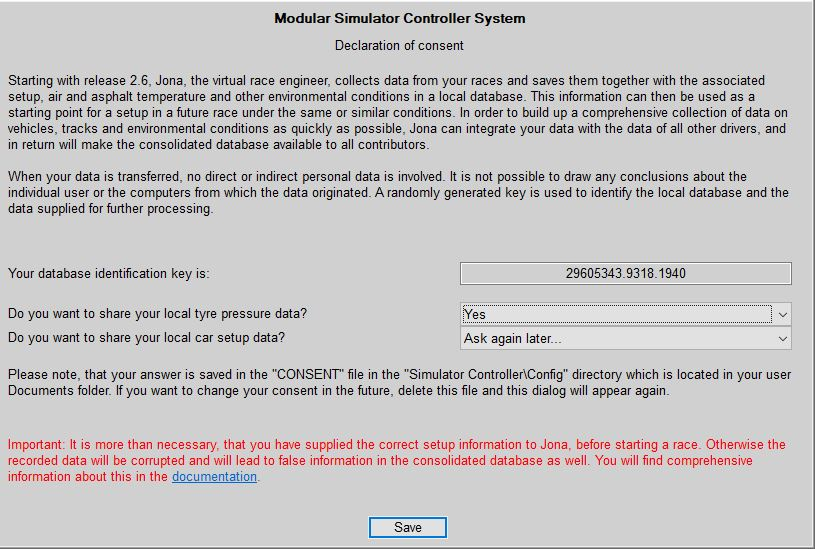
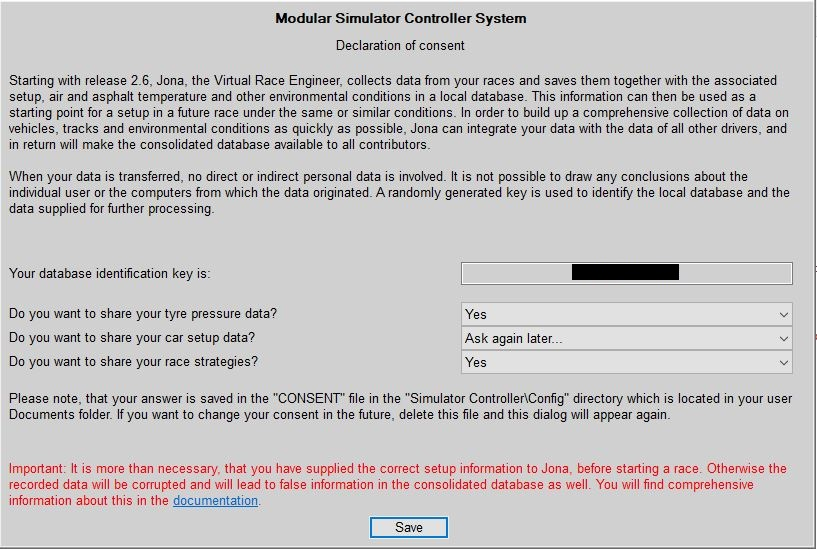
Documentation Update

diff --git a/Docs/Releases.md b/Docs/Releases.md
@@ -1,8 +1,18 @@
+## 4.4.9.0-release 11/25/22 (planned)
+  1. Minor bugfixes, as always
+  2. Documentation updates, as always
+  3. Tweaked colord coding of used tyres in "Race Center".
+  4. Race strategies are now included in the "Session Database" browser and can be [managed there](https://github.com/SeriousOldMan/Simulator-Controller/wiki/Virtual-Race-Engineer#strategies).
+  5. Support for sharing race strategies with the community (your [sharing consent](https://github.com/SeriousOldMan/Simulator-Controller/wiki/Virtual-Race-Engineer#race--session-database) will popup for review again).
+  6. Fixed post pitstop tyre analysis in "Race Center".
+  7. Updated color coding of used tyres in "Race Center".
+  8. Fixed unlimited practice mode for *Assetto Corsa Competizione*.
+
 ## 4.4.8.0-release 11/18/22
   1. Minor bugfixes, as always
   2. Documentation updates, as always
   3. Support for replication of car setups as well as race strategies has been added to the [Team Server data replication](https://github.com/SeriousOldMan/Simulator-Controller/wiki/Virtual-Race-Engineer#database-configuration). Attention: Using this feature requires an update of the Team Server. Please read the [Update Notes](https://github.com/SeriousOldMan/Simulator-Controller/wiki/Update-Notes#release-448), if you are hosting your own Team Server.
-  4. You can now decide for each car setup individually, whether it will be [shared with the community](https://github.com/SeriousOldMan/Simulator-Controller/wiki/Virtual-Race-Engineer#setup-repository). But as before, sharing of setups with the community generally requires your consent. If you want to review your consent, simply delete the file "CONSENT", which can be found in the *Simulator Controller\Config* folder, which is located in your user *Documents* folder. And you can also decide inidividually, whether a car setup will be synchronized with any of the connected Team Server databases (see 3. above).
+  4. You can now decide for each car setup individually, whether it will be [shared with the community](https://github.com/SeriousOldMan/Simulator-Controller/wiki/Virtual-Race-Engineer#setups). But as before, sharing of setups with the community generally requires your consent. If you want to review your consent, simply delete the file "CONSENT", which can be found in the *Simulator Controller\Config* folder, which is located in your user *Documents* folder. And you can also decide inidividually, whether a car setup will be synchronized with any of the connected Team Server databases (see 3. above).
   5. Multiple data connections are now supported for the [Team Server data replication](https://github.com/SeriousOldMan/Simulator-Controller/wiki/Virtual-Race-Engineer#database-configuration) which allows you to use telemetry data, pressures data and so on from multiple differen teams.
   6. Fixed end of race detection for fixed-lap races in rFactor 2.
   7. Race Assistant configurations can be [synchronized](https://github.com/SeriousOldMan/Simulator-Controller/wiki/Installation-&-Configuration#tab-race-engineer) by a click of a button.
@@ -61,7 +71,7 @@ Please also take a look at the [Update Notes](https://github.com/SeriousOldMan/S
   3. The position on the screen where info and progress overlays are displayed, can now be configured in the [UI settings](https://github.com/SeriousOldMan/Simulator-Controller/wiki/Using-Simulator-Controller#customizing-controller-notifications).
   4. The session synchronization can be [temporarily disabled](https://github.com/SeriousOldMan/Simulator-Controller/wiki/Team-Server#connecting-to-a-session) in the "Race Center", while you are working with the data.
   5. The Team Server now supports synchronization of telemetry data between different members of a team. The documentation for [team management](https://github.com/SeriousOldMan/Simulator-Controller/wiki/Team-Server#managing-teams) of the Team server itself, as well as the [database configuration](https://github.com/SeriousOldMan/Simulator-Controller/wiki/Virtual-Race-Engineer#database-configuration) of the "Session Database" has been heavily revised.
-  6. A driver may be selected in "Session Database" when [looking for tyre pressures](https://github.com/SeriousOldMan/Simulator-Controller/wiki/Virtual-Race-Engineer#tyre-pressure-advisor). This very helpful when looking for cold tyre pressures for your team mate during a team race.
+  6. A driver may be selected in "Session Database" when [looking for tyre pressures](https://github.com/SeriousOldMan/Simulator-Controller/wiki/Virtual-Race-Engineer#tyre-pressures). This very helpful when looking for cold tyre pressures for your team mate during a team race.
   7. Refactoring of the translation framework to better support the new Spanish translation.
   8. Thanks to the great work of Jose Krilin, we have an initial version of a Spanish translation. The UI has been translated for the most part and will be polished in the next weeks and you can also expect a working version of the voice generation and recognition soon.
   9. Fixed startup of Race Spotter in situations with a very short rolling or even a standing start.
@@ -295,7 +305,7 @@ Please also take a look at the [Update Notes](https://github.com/SeriousOldMan/S
   2. Documentation updates, as always
   3. New options in pitstop rules for always refueling and always changing tyres in strategy simulation.
   4. Introducing track automation, which let you automate your car settings like TC and ABS depending on track location.
-     - A new page has been added to "Session Database", which allows you to specify [location specific actions](https://github.com/SeriousOldMan/Simulator-Controller/wiki/Virtual-Race-Engineer#automation) for a specific simulator / car / track combination.
+     - A new page has been added to "Session Database", which allows you to specify [location specific actions](https://github.com/SeriousOldMan/Simulator-Controller/wiki/Virtual-Race-Engineer#automations) for a specific simulator / car / track combination.
      - Added the ["TrackAutomation" action](https://github.com/SeriousOldMan/Simulator-Controller/wiki/Plugins-&-Modes#plugin-race-spotter) to the "Race Spotter" plugin which let's you enable or disable location specific actions when you are out on the track.
 	 - New ["enableTrackAutomation", "disableTrackAutomations" and "selectTrackAutomation"](https://github.com/SeriousOldMan/Simulator-Controller/wiki/Virtual-Race-Spotter#choosing-between-different-track-automations), which let you control the track automationsm while on the track.
      - Added a new icon to the Stream Deck icon set for the "TrackAutomation" action.

diff --git a/Docs/Virtual Race Engineer.md b/Docs/Virtual Race Engineer.md
@@ -491,7 +491,7 @@ When your data is transferred, no direct or indirect personal data is involved. 
 
 ![](https://github.com/SeriousOldMan/Simulator-Controller/blob/main/Docs/Images/Consent.JPG)
 
-Note: You can give separate consents for sharing your tyre pressure setups and your mechanical and aerodynamic car setups, since the later might be considered to be some sort of private secret, for example. Furthermore, you must explicitly upload car setup data to include it to the session database, so you can decide which data you want to share. On the other hand, tyre pressures will be collected automatically by Jona, but you will be asked whether to include them in the session database (see below).
+Note: You can give separate consents for sharing your tyre pressure setups, your race strategies and your mechanical and aerodynamic car setups. Since car setups and race strategies might be considered kind of a secret, you must declare, whether you want to share the given strategy or setup individually for each item and you must explicitly upload car setup data to be shared to the session database. On the other hand, tyre pressures will be collected automatically by Jona, but you will be asked whether to include them in the session database (see below).
 
 If you have given your consents, the data collected in your local sessions will be transferred to a cloud database once a week. You will get a payback in terms of a consolidated database of all contributors and Jona will use the data to help you in your setup task in the pit, but also during a race, when radical weather changes are upcoming. This community database will be updated on your local PC every two days, so you will always get the latest and greatest setup data. The update process works completely in the background, so nothing to do on your side.
 
@@ -557,13 +557,21 @@ Important note: The value for the setting "Race Duration" is stored in seconds, 
 
 The default values for all these settings may not only be used to initialize the race settings for an upcoming session, but they may also be used in the "Strategy Workbench" to provide values for many [settings for strategy simulation & planning](https://github.com/SeriousOldMan/Simulator-Controller/wiki/Virtual-Race-Strategist#rules--settings).
 
-#### Setup Repository
+#### Strategies
+
+This tab shows you a list of race stratagies, which are stored in the database. Note: Race strategies can be created and stored in the session database using the "Strategy Workbench".
+
+![](https://github.com/SeriousOldMan/Simulator-Controller/blob/main/Docs/Images/Session%20Database%2015.jpg)
+
+You can use the buttons below the list to upload, download, rename or delete a strategy, but you can also use the "Strategy Workbench" to create a strategy and store it on the database. Once you have selected a strategy in the list above, you can decide whether you want to share this strategy potentially with the community (if you have given consent to share strategies) and/or whether you want to synchronize the strategy with any of the [connected Team Servers](https://github.com/SeriousOldMan/Simulator-Controller/wiki/Virtual-Race-Engineer#database-configuration) (see below).
+
+#### Setups
 
 This tab allows you to store your preferred car setup files for different conditions (Wet vs. Dry) and different Sessions (Qualification vs. Race) in the session database.
 
 ![](https://github.com/SeriousOldMan/Simulator-Controller/blob/main/Docs/Images/Session%20Database%206.jpg)
 
-Use the drop down menu at the top to select the type of setup, you want to store or retrieve. After you have done that, you can use the buttons below the list to upload, download, rename or delete a setup file from your simulator. Once you have uploaded a setup you can decide whether you want to share this setup potentially with the community (if you have given consent to share setups) and/or you want to synchronize the setup with any [connected Team Server](https://github.com/SeriousOldMan/Simulator-Controller/wiki/Virtual-Race-Engineer#database-configuration) (see below).
+Use the drop down menu at the top to select the type of setup, you want to store or retrieve. After you have done that, you can use the buttons below the list to upload, download, rename or delete a setup file from your simulator. Once you have selected a setup in the list above, you can decide whether you want to share this setup potentially with the community (if you have given consent to share setups) and/or whether you want to synchronize the setup with any of the [connected Team Servers](https://github.com/SeriousOldMan/Simulator-Controller/wiki/Virtual-Race-Engineer#database-configuration) (see below).
 
 ##### Naming conventions
 
@@ -577,7 +585,7 @@ Why so complex? There is a strong dependency between the track surface state, ai
 
 Please note, that you can use the "Pencil" button to rename an already uploaded setup file to follow the above conventions, if necessary.
 
-#### Tyre Pressure Advisor
+#### Tyre Pressures
 
 Here you will get a recommendation for initial cold tyre pressures, if a matching setup is available in the session database. Depending on the temperature settings the recommended tyre pressures will be marked in dark green for a perfect match, or light green or even yellow, if the values have been extra- or interpolated from different air and/or track temperatures.
 
@@ -591,7 +599,7 @@ Notes:
 
   3. You can configure using the [settings in the "Session Database"](https://github.com/SeriousOldMan/Simulator-Controller/wiki/Virtual-Race-Engineer#race-settings-1) the session types, from which tyre pressure data will be collected and stored into the database by Jona. Default is to collect tyre pressure data during practice and race sessions.
 
-#### Automation
+#### Automations
 
 At this page, you can define automatic actions for specific locations at the track. Since this is a very extensive functionality and observing your car and its position on the track is the duty of the Race Spotter, there is a [dedicated chapter](https://github.com/SeriousOldMan/Simulator-Controller/wiki/Virtual-Race-Spotter#track-automations) in the documentation of the Virtual Race Spotter, which shows how to setup and use track automations.
 

diff --git a/Docs/Team Server.md b/Docs/Team Server.md
@@ -14,7 +14,13 @@ Disclaimer: Although the current version of the *Team Server* is no longer to be
 
 The *Team Server* requires you to run a Web API server process, which has been developed using .NET Core 3.1. Applications developed using this multi-plattform server framework from Micorsoft can be hosted on Windows, Linux and even macOS operating systems. You can find the *Team Server* in the *Binaries* folder - please copy this directory to your favorite hosting environment. If you want to set up your own host or if you want to test the *Team Server* on your local PC, you will have to install the .NET Core 3.1 framework. All required resources can be found on this [dedicated website](https://dotnet.microsoft.com/download/dotnet/3.1) from Microsoft.
 
-To start the *Team Server*, you simply start the "Team Server.exe" from the corresponding directory. But before you do that, take a look at the "Settings.json" file, which is located in the same folder.
+After you have installed .NET Core 3.1 and the Team Server, you have to configure the URL, where the server listens. Default is "https://localhost:5001" or "http://localhost:5000". But, when you want to setup a server which is available on the network, you have to setup a different URL. Information about this can be found in this [short article](https://andrewlock.net/5-ways-to-set-the-urls-for-an-aspnetcore-app/). The easiest way will be to supply the URL using a command line argument, for example:
+
+	TeamServer.exe --urls "http://yourip:5100;https://yourip:5101"
+
+with *yourip* substituted with the IP, where your server should be available. And you have to make sure that this IP is visible to the public, of course.
+
+Then you can start the *Team Server* by running "TeamServer.exe" (with the required options) from the corresponding directory. But before you do that, take a look at the "Settings.json" file, which is located in the same folder.
 
 	{
 	  "DBPath": ":memory:",

diff --git a/Docs/Sidebar.md b/Docs/Sidebar.md
@@ -113,9 +113,10 @@
     - [How it works](https://github.com/SeriousOldMan/Simulator-Controller/wiki/Virtual-Race-Engineer#how-it-works)
   - [Session Database](https://github.com/SeriousOldMan/Simulator-Controller/wiki/Virtual-Race-Engineer#race--session-database)
     - [Race Settings](https://github.com/SeriousOldMan/Simulator-Controller/wiki/Virtual-Race-Engineer#race-settings-1)
-    - [Setup Repository](https://github.com/SeriousOldMan/Simulator-Controller/wiki/Virtual-Race-Engineer#setup-repository)
-    - [Tyre Pressure Advisor](https://github.com/SeriousOldMan/Simulator-Controller/wiki/Virtual-Race-Engineer#tyre-pressure-advisor)
-    - [Automation](https://github.com/SeriousOldMan/Simulator-Controller/wiki/Virtual-Race-Engineer#automation)
+    - [Strategies](https://github.com/SeriousOldMan/Simulator-Controller/wiki/Virtual-Race-Engineer#strategies)
+    - [Setups](https://github.com/SeriousOldMan/Simulator-Controller/wiki/Virtual-Race-Engineer#setups)
+    - [Tyre Pressures](https://github.com/SeriousOldMan/Simulator-Controller/wiki/Virtual-Race-Engineer#tyre-pressures)
+    - [Automations](https://github.com/SeriousOldMan/Simulator-Controller/wiki/Virtual-Race-Engineer#automations)
 	- [Administration](https://github.com/SeriousOldMan/Simulator-Controller/wiki/Virtual-Race-Engineer#administration)
   - [Technical Information](https://github.com/SeriousOldMan/Simulator-Controller/wiki/Virtual-Race-Engineer#technical-information)
     - [Rule Engine](https://github.com/SeriousOldMan/Simulator-Controller/wiki/Virtual-Race-Engineer#the-rule-engine)
